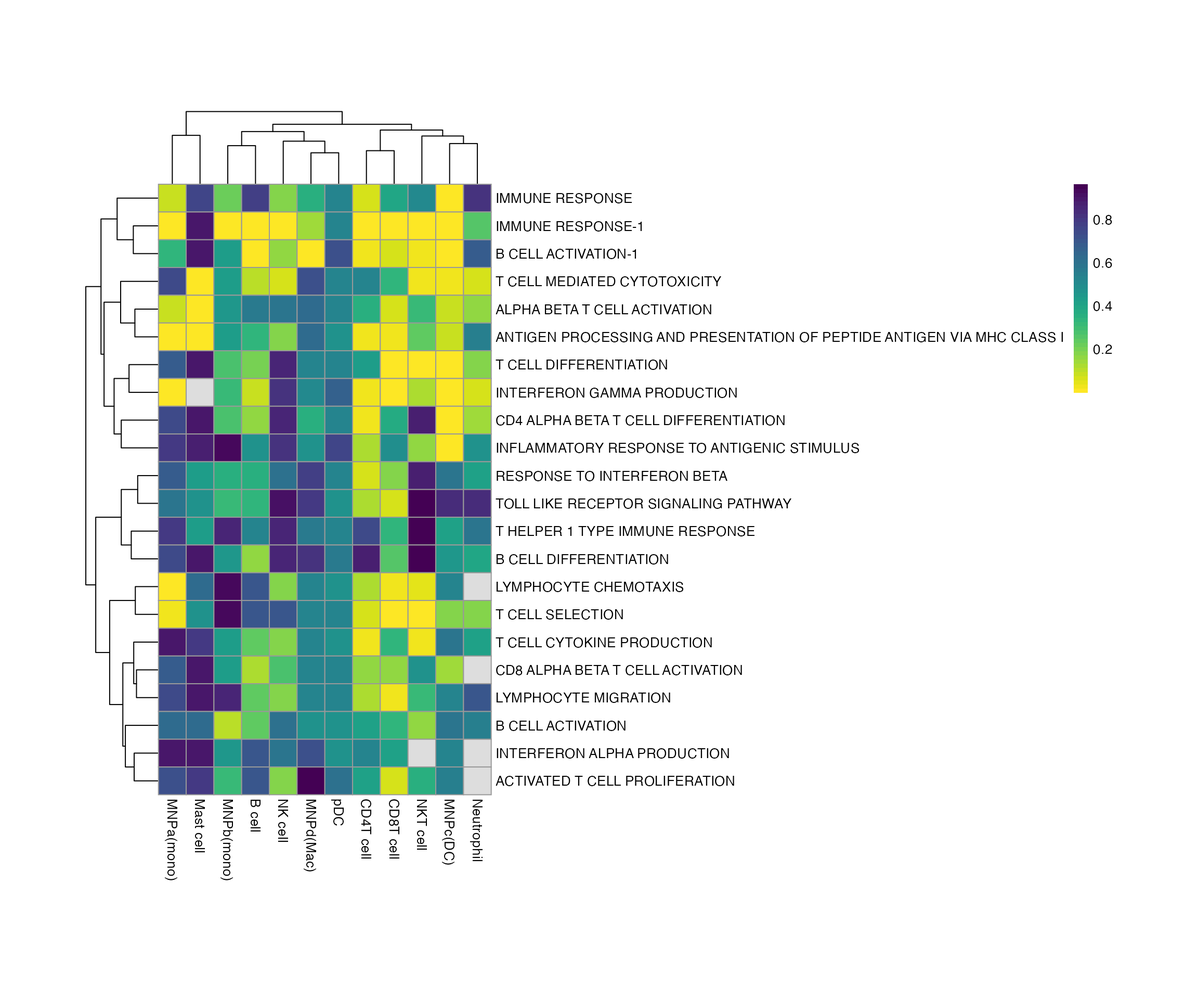
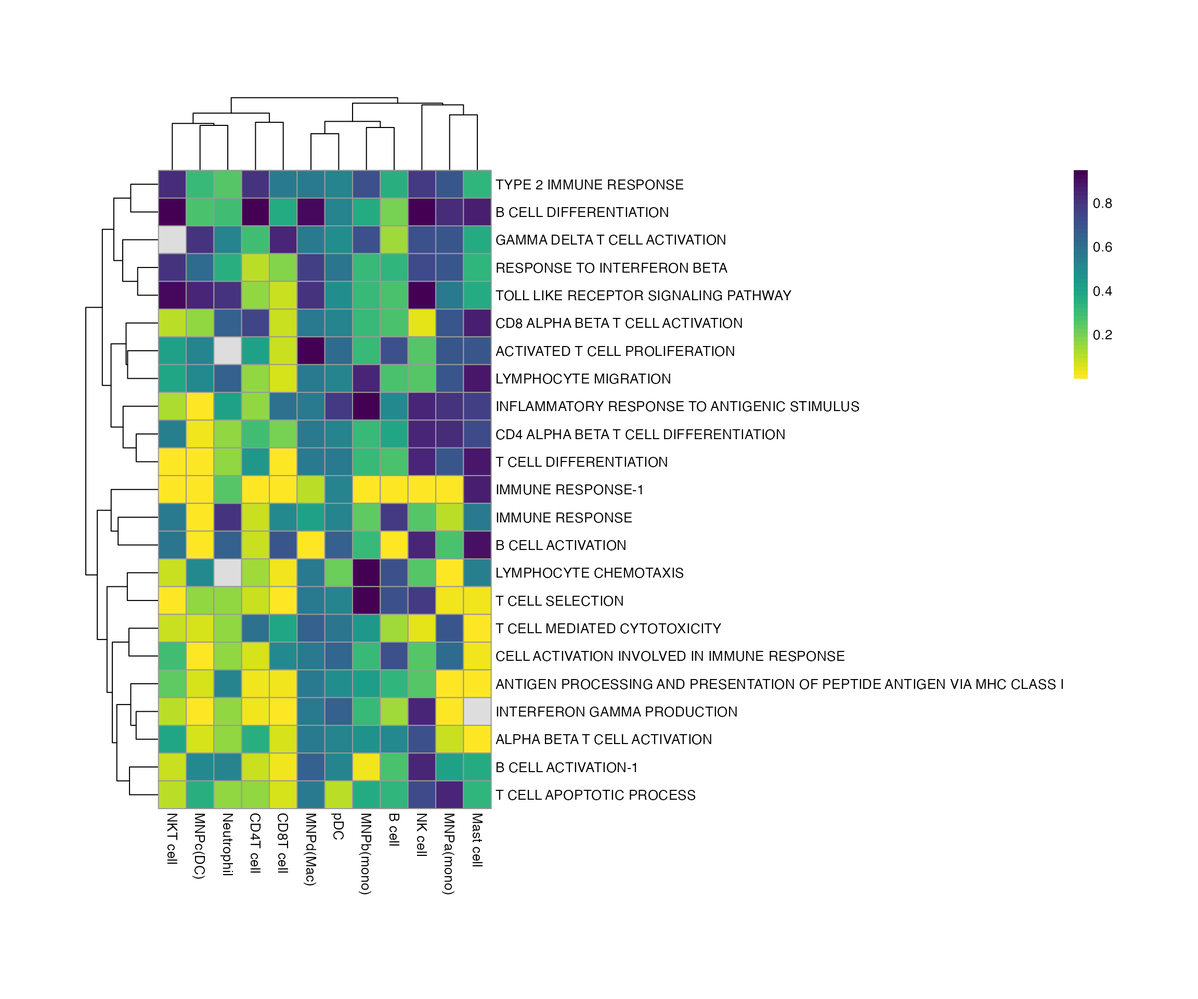
Built site for bowerbird: 0.0.2@d61a833

Changed region(s): [[0.0625, 0.0938, 0.7188, 0.875], [0.6875, 0.2812, 0.9375, 0.4062], [0.875, 0.1562, 0.9375, 0.2188]]

diff --git a/index.html b/index.html
@@ -158,7 +158,10 @@
 <span class="va">bwr</span> <span class="op">&lt;-</span> <span class="fu">bower</span><span class="op">(</span><span class="va">gs_list</span><span class="op">)</span>
 <span class="va">bwr</span> <span class="op">&lt;-</span> <span class="fu"><a href="reference/snn_graph.html">snn_graph</a></span><span class="op">(</span><span class="va">bwr</span><span class="op">)</span>
 <span class="va">bwr</span> <span class="op">&lt;-</span> <span class="fu"><a href="reference/find_clusters.html">find_clusters</a></span><span class="op">(</span><span class="va">bwr</span><span class="op">)</span>
-<span class="va">bwr</span> <span class="op">&lt;-</span> <span class="fu">summarize_clusters</span><span class="op">(</span><span class="va">bwr</span><span class="op">)</span></code></pre></div>
+<span class="va">bwr</span> <span class="op">&lt;-</span> <span class="fu">summarize_clusters</span><span class="op">(</span><span class="va">bwr</span><span class="op">)</span>
+
+<span class="co"># plot</span>
+<span class="fu"><a href="reference/plot_graph.html">plot_graph</a></span><span class="op">(</span><span class="va">bwr</span>, colorby <span class="op">=</span> <span class="st">'cluster'</span>, node.size <span class="op">=</span> <span class="st">'geneset_size'</span><span class="op">)</span></code></pre></div>
 </div>
 <div id="geneset-enrichment-analysis" class="section level2">
 <h2 class="hasAnchor">
@@ -180,59 +183,17 @@
 <span class="co">## scanpy.tl.score_genes</span>
 <span class="va">bwr</span> <span class="op">&lt;-</span> <span class="fu"><a href="reference/enrich_genesets.html">enrich_genesets</a></span><span class="op">(</span><span class="va">kidneyimmune</span>, <span class="va">bwr</span>, groupby <span class="op">=</span> <span class="st">'celltype'</span>, mode <span class="op">=</span> <span class="st">'scanpy'</span><span class="op">)</span>
 
-<span class="co"># plot</span>
-<span class="kw"><a href="https://rdrr.io/r/base/library.html">library</a></span><span class="op">(</span><span class="va"><a href="https://ggraph.data-imaginist.com">ggraph</a></span><span class="op">)</span>
-<span class="kw"><a href="https://rdrr.io/r/base/library.html">library</a></span><span class="op">(</span><span class="va"><a href="https://ggplot2.tidyverse.org">ggplot2</a></span><span class="op">)</span>
-<span class="va">plot_list</span> <span class="op">&lt;-</span> <span class="fu"><a href="https://rdrr.io/r/base/lapply.html">lapply</a></span><span class="op">(</span><span class="fu"><a href="https://rdrr.io/r/base/colnames.html">colnames</a></span><span class="op">(</span><span class="va">bwr</span><span class="op">@</span><span class="va">scores</span><span class="op">)</span>, <span class="kw">function</span><span class="op">(</span><span class="va">ds</span><span class="op">)</span><span class="op">{</span>
-  <span class="fu"><a href="https://rdrr.io/r/base/Random.html">set.seed</a></span><span class="op">(</span><span class="fl">100</span><span class="op">)</span>
-  <span class="fu">igraph</span><span class="fu">::</span><span class="fu"><a href="https://rdrr.io/pkg/igraph/man/V.html">V</a></span><span class="op">(</span><span class="va">bwr</span><span class="op">@</span><span class="va">graph</span><span class="op">)</span><span class="op">$</span><span class="va">score</span> <span class="op">&lt;-</span> <span class="va">bwr</span><span class="op">@</span><span class="va">scores</span><span class="op">[</span>, <span class="va">ds</span><span class="op">]</span>
-  <span class="va">g</span> <span class="op">&lt;-</span> <span class="fu"><a href="https://ggraph.data-imaginist.com/reference/ggraph.html">ggraph</a></span><span class="op">(</span><span class="va">bwr</span><span class="op">@</span><span class="va">graph</span>, <span class="st">'igraph'</span>, algorithm <span class="op">=</span> <span class="st">'fr'</span><span class="op">)</span> <span class="op">+</span> 
-    <span class="fu"><a href="https://ggraph.data-imaginist.com/reference/geom_edge_link.html">geom_edge_link</a></span><span class="op">(</span><span class="fu"><a href="https://ggplot2.tidyverse.org/reference/aes.html">aes</a></span><span class="op">(</span>width <span class="op">=</span> <span class="va">weight</span><span class="op">)</span>, alpha <span class="op">=</span> <span class="fl">.25</span><span class="op">)</span> <span class="op">+</span>
-    <span class="fu"><a href="https://ggraph.data-imaginist.com/reference/geom_node_point.html">geom_node_point</a></span><span class="op">(</span><span class="fu"><a href="https://ggplot2.tidyverse.org/reference/aes.html">aes</a></span><span class="op">(</span>color <span class="op">=</span> <span class="va">score</span>, size <span class="op">=</span> <span class="va">geneset_size</span><span class="op">)</span><span class="op">)</span> <span class="op">+</span> 
-    <span class="fu"><a href="https://ggplot2.tidyverse.org/reference/scale_size.html">scale_size_area</a></span><span class="op">(</span>max_size <span class="op">=</span> <span class="fl">3</span><span class="op">)</span> <span class="op">+</span>
-    <span class="fu"><a href="https://ggraph.data-imaginist.com/reference/geom_node_text.html">geom_node_text</a></span><span class="op">(</span><span class="fu"><a href="https://ggplot2.tidyverse.org/reference/aes.html">aes</a></span><span class="op">(</span>label <span class="op">=</span> <span class="va">labels</span><span class="op">)</span>, size <span class="op">=</span> <span class="fl">1</span><span class="op">)</span> <span class="op">+</span>
-    <span class="fu"><a href="https://ggplot2.tidyverse.org/reference/ggtheme.html">theme_bw</a></span><span class="op">(</span><span class="op">)</span> <span class="op">+</span>
-    <span class="fu"><a href="https://ggplot2.tidyverse.org/reference/ggtheme.html">theme_void</a></span><span class="op">(</span><span class="op">)</span> <span class="op">+</span>
-    <span class="fu"><a href="https://sjmgarnier.github.io/viridis/reference/scale_viridis.html">scale_color_viridis</a></span><span class="op">(</span><span class="op">)</span> <span class="op">+</span>
-    <span class="co"># scale_color_viridis(limits=c(0, 0.1), oob=scales::squish) +</span>
-    <span class="fu"><a href="https://ggraph.data-imaginist.com/reference/scale_edge_width.html">scale_edge_width</a></span><span class="op">(</span>range <span class="op">=</span> <span class="fu"><a href="https://rdrr.io/r/base/c.html">c</a></span><span class="op">(</span><span class="fl">0</span>, <span class="fl">1</span><span class="op">)</span><span class="op">)</span> <span class="op">+</span>
-    <span class="fu"><a href="https://ggplot2.tidyverse.org/reference/labs.html">ggtitle</a></span><span class="op">(</span><span class="va">ds</span><span class="op">)</span>
-<span class="op">}</span><span class="op">)</span>
-<span class="fu"><a href="https://rdrr.io/r/base/names.html">names</a></span><span class="op">(</span><span class="va">plot_list</span><span class="op">)</span> <span class="op">&lt;-</span> <span class="fu"><a href="https://rdrr.io/r/base/colnames.html">colnames</a></span><span class="op">(</span><span class="va">bwr</span><span class="op">@</span><span class="va">scores</span><span class="op">)</span>
-<span class="fu">cowplot</span><span class="fu">::</span><span class="fu"><a href="https://wilkelab.org/cowplot/reference/plot_grid.html">plot_grid</a></span><span class="op">(</span>plotlist <span class="op">=</span> <span class="va">plot_list</span><span class="op">)</span>
-<span class="co"># as a heatmap</span>
-<span class="fu">pheatmap</span><span class="fu">::</span><span class="fu"><a href="https://rdrr.io/pkg/pheatmap/man/pheatmap.html">pheatmap</a></span><span class="op">(</span><span class="va">bwr</span><span class="op">@</span><span class="va">scores</span><span class="op">)</span>
-
 <span class="co"># with fgsea on deg tables in a list</span>
 <span class="va">degs</span> <span class="op">&lt;-</span> <span class="fu">Seurat</span><span class="fu">::</span><span class="fu"><a href="https://satijalab.org/seurat/reference/FindAllMarkers.html">FindAllMarkers</a></span><span class="op">(</span><span class="va">kidneyimmune</span><span class="op">)</span>
 <span class="va">degs</span> <span class="op">&lt;-</span> <span class="fu"><a href="https://rdrr.io/r/base/split.html">split</a></span><span class="op">(</span><span class="va">degs</span>, <span class="va">degs</span><span class="op">$</span><span class="va">cluster</span><span class="op">)</span> <span class="co"># so in practice, there should be one DEG table per comparison in a list.</span>
-<span class="va">bwr</span> <span class="op">&lt;-</span> <span class="fu"><a href="reference/enrich_genesets.html">enrich_genesets</a></span><span class="op">(</span><span class="va">degs</span>, <span class="va">bwr</span>, gene_symbol <span class="op">=</span> <span class="st">'gene'</span>, logfoldchanges <span class="op">=</span> <span class="st">'avg_logFC'</span>,  pvals <span class="op">=</span> <span class="st">'p_val'</span><span class="op">)</span>
+<span class="va">bwr</span> <span class="op">&lt;-</span> <span class="fu"><a href="reference/enrich_genesets.html">enrich_genesets</a></span><span class="op">(</span><span class="va">degs</span>, <span class="va">bwr</span>, gene_symbol <span class="op">=</span> <span class="st">'gene'</span>, logfoldchanges <span class="op">=</span> <span class="st">'avg_log2FC'</span>,  pvals <span class="op">=</span> <span class="st">'p_val'</span><span class="op">)</span>
 
 <span class="co"># plot</span>
-<span class="va">plot_list</span> <span class="op">&lt;-</span> <span class="fu"><a href="https://rdrr.io/r/base/lapply.html">lapply</a></span><span class="op">(</span><span class="fu"><a href="https://rdrr.io/r/base/colnames.html">colnames</a></span><span class="op">(</span><span class="va">bwr</span><span class="op">@</span><span class="va">scores</span><span class="op">$</span><span class="va">NES</span><span class="op">)</span>, <span class="kw">function</span><span class="op">(</span><span class="va">ds</span><span class="op">)</span><span class="op">{</span>
-  <span class="fu"><a href="https://rdrr.io/r/base/Random.html">set.seed</a></span><span class="op">(</span><span class="fl">100</span><span class="op">)</span>
-  <span class="va">NES</span> <span class="op">&lt;-</span> <span class="va">bwr</span><span class="op">@</span><span class="va">scores</span><span class="op">$</span><span class="va">NES</span><span class="op">[</span>, <span class="va">ds</span><span class="op">]</span>
-  <span class="va">padj</span> <span class="op">&lt;-</span> <span class="va">bwr</span><span class="op">@</span><span class="va">scores</span><span class="op">$</span><span class="va">padj</span><span class="op">[</span>, <span class="va">ds</span><span class="op">]</span>
-  <span class="va">padj</span><span class="op">[</span><span class="va">padj</span> <span class="op">&gt;=</span> <span class="fl">0.25</span><span class="op">]</span> <span class="op">&lt;-</span> <span class="cn">NA</span>
-  <span class="fu">igraph</span><span class="fu">::</span><span class="fu"><a href="https://rdrr.io/pkg/igraph/man/V.html">V</a></span><span class="op">(</span><span class="va">bwr</span><span class="op">@</span><span class="va">graph</span><span class="op">)</span><span class="op">$</span><span class="va">NES</span> <span class="op">&lt;-</span> <span class="va">NES</span>
-  <span class="fu">igraph</span><span class="fu">::</span><span class="fu"><a href="https://rdrr.io/pkg/igraph/man/V.html">V</a></span><span class="op">(</span><span class="va">bwr</span><span class="op">@</span><span class="va">graph</span><span class="op">)</span><span class="op">$</span><span class="va">padj</span> <span class="op">&lt;-</span> <span class="va">padj</span>
-  <span class="va">g</span> <span class="op">&lt;-</span> <span class="fu"><a href="https://ggraph.data-imaginist.com/reference/ggraph.html">ggraph</a></span><span class="op">(</span><span class="va">bwr</span><span class="op">@</span><span class="va">graph</span>, <span class="st">'igraph'</span>, algorithm <span class="op">=</span> <span class="st">'fr'</span><span class="op">)</span> <span class="op">+</span> 
-    <span class="fu"><a href="https://ggraph.data-imaginist.com/reference/geom_edge_link.html">geom_edge_link</a></span><span class="op">(</span><span class="fu"><a href="https://ggplot2.tidyverse.org/reference/aes.html">aes</a></span><span class="op">(</span>width <span class="op">=</span> <span class="va">weight</span><span class="op">)</span>, alpha <span class="op">=</span> <span class="fl">.25</span><span class="op">)</span> <span class="op">+</span>
-    <span class="fu"><a href="https://ggraph.data-imaginist.com/reference/geom_node_point.html">geom_node_point</a></span><span class="op">(</span><span class="fu"><a href="https://ggplot2.tidyverse.org/reference/aes.html">aes</a></span><span class="op">(</span>color <span class="op">=</span> <span class="va">padj</span>, size <span class="op">=</span> <span class="va">NES</span><span class="op">)</span><span class="op">)</span> <span class="op">+</span> 
-    <span class="fu"><a href="https://ggplot2.tidyverse.org/reference/scale_size.html">scale_size_area</a></span><span class="op">(</span>max_size <span class="op">=</span> <span class="fl">3</span><span class="op">)</span> <span class="op">+</span>
-    <span class="fu"><a href="https://ggraph.data-imaginist.com/reference/geom_node_text.html">geom_node_text</a></span><span class="op">(</span><span class="fu"><a href="https://ggplot2.tidyverse.org/reference/aes.html">aes</a></span><span class="op">(</span>label <span class="op">=</span> <span class="va">labels</span><span class="op">)</span>, size <span class="op">=</span> <span class="fl">1</span><span class="op">)</span> <span class="op">+</span>
-    <span class="fu"><a href="https://ggplot2.tidyverse.org/reference/ggtheme.html">theme_bw</a></span><span class="op">(</span><span class="op">)</span> <span class="op">+</span>
-    <span class="fu"><a href="https://ggplot2.tidyverse.org/reference/ggtheme.html">theme_void</a></span><span class="op">(</span><span class="op">)</span> <span class="op">+</span>
-    <span class="fu"><a href="https://sjmgarnier.github.io/viridis/reference/scale_viridis.html">scale_color_viridis</a></span><span class="op">(</span><span class="op">)</span> <span class="op">+</span>
-    <span class="co"># scale_color_viridis(limits=c(0, 0.1), oob=scales::squish) +</span>
-    <span class="fu"><a href="https://ggraph.data-imaginist.com/reference/scale_edge_width.html">scale_edge_width</a></span><span class="op">(</span>range <span class="op">=</span> <span class="fu"><a href="https://rdrr.io/r/base/c.html">c</a></span><span class="op">(</span><span class="fl">0</span>, <span class="fl">1</span><span class="op">)</span><span class="op">)</span> <span class="op">+</span>
-    <span class="fu"><a href="https://ggplot2.tidyverse.org/reference/labs.html">ggtitle</a></span><span class="op">(</span><span class="va">ds</span><span class="op">)</span> <span class="op">+</span> <span class="fu"><a href="https://ggplot2.tidyverse.org/reference/theme.html">theme</a></span><span class="op">(</span>legend.position <span class="op">=</span> <span class="st">'none'</span><span class="op">)</span>
+<span class="va">celltypes</span> <span class="op">&lt;-</span> <span class="fu"><a href="https://rdrr.io/r/base/levels.html">levels</a></span><span class="op">(</span><span class="va">kidneyimmune</span><span class="op">)</span> <span class="co"># celtypes stored as Idents in seurat object.</span>
+<span class="va">plot_list</span> <span class="op">&lt;-</span> <span class="fu"><a href="https://rdrr.io/r/base/lapply.html">lapply</a></span><span class="op">(</span><span class="va">celltypes</span>, <span class="kw">function</span><span class="op">(</span><span class="va">ds</span><span class="op">)</span><span class="op">{</span>
+  <span class="va">g</span> <span class="op">&lt;-</span> <span class="fu"><a href="reference/plot_graph.html">plot_graph</a></span><span class="op">(</span><span class="va">bwr</span>, colorby <span class="op">=</span> <span class="va">ds</span><span class="op">)</span> <span class="op">+</span> <span class="fu">viridis</span><span class="fu">::</span><span class="fu"><a href="https://sjmgarnier.github.io/viridis/reference/scale_viridis.html">scale_color_viridis</a></span><span class="op">(</span><span class="op">)</span> <span class="op">+</span> <span class="fu">theme</span><span class="op">(</span>plot.title <span class="op">=</span> <span class="fu">element_text</span><span class="op">(</span>size <span class="op">=</span> <span class="fl">8</span>, face <span class="op">=</span> <span class="st">"bold"</span><span class="op">)</span><span class="op">)</span>
 <span class="op">}</span><span class="op">)</span>
-<span class="fu"><a href="https://rdrr.io/r/base/names.html">names</a></span><span class="op">(</span><span class="va">plot_list</span><span class="op">)</span> <span class="op">&lt;-</span> <span class="fu"><a href="https://rdrr.io/r/base/colnames.html">colnames</a></span><span class="op">(</span><span class="va">bwr</span><span class="op">@</span><span class="va">scores</span><span class="op">$</span><span class="va">NES</span><span class="op">)</span>
-<span class="fu">cowplot</span><span class="fu">::</span><span class="fu"><a href="https://wilkelab.org/cowplot/reference/plot_grid.html">plot_grid</a></span><span class="op">(</span>plotlist <span class="op">=</span> <span class="va">plot_list</span><span class="op">)</span>
-
-<span class="co"># as a heatmap</span>
-<span class="fu">pheatmap</span><span class="fu">::</span><span class="fu"><a href="https://rdrr.io/pkg/pheatmap/man/pheatmap.html">pheatmap</a></span><span class="op">(</span><span class="va">bwr</span><span class="op">@</span><span class="va">scores</span><span class="op">$</span><span class="va">NES</span><span class="op">)</span></code></pre></div>
+<span class="fu">cowplot</span><span class="fu">::</span><span class="fu"><a href="https://wilkelab.org/cowplot/reference/plot_grid.html">plot_grid</a></span><span class="op">(</span>plotlist <span class="op">=</span> <span class="va">plot_list</span>, scale <span class="op">=</span> <span class="fl">0.9</span><span class="op">)</span></code></pre></div>
 </div>
 <div id="using-core-genes-for-enrichment" class="section level2">
 <h2 class="hasAnchor">
@@ -241,11 +202,11 @@
 <code class="sourceCode R"><span class="co"># same function as above, just specifying core = TRUE.</span>
 <span class="va">bwr</span> <span class="op">&lt;-</span> <span class="fu"><a href="reference/enrich_genesets.html">enrich_genesets</a></span><span class="op">(</span><span class="va">kidneyimmune</span>, <span class="va">bwr</span>, core <span class="op">=</span> <span class="cn">TRUE</span>, groupby <span class="op">=</span> <span class="st">'celltype'</span><span class="op">)</span> <span class="co"># if mode is not specified, defaults to AUCell.</span>
 <span class="co"># output can also be plotted via ggraph as above but i'm using heatmap for convenience.</span>
-<span class="fu">pheatmap</span><span class="fu">::</span><span class="fu"><a href="https://rdrr.io/pkg/pheatmap/man/pheatmap.html">pheatmap</a></span><span class="op">(</span><span class="va">bwr</span><span class="op">@</span><span class="va">scores</span><span class="op">)</span>
+<span class="fu">pheatmap</span><span class="fu">::</span><span class="fu"><a href="https://rdrr.io/pkg/pheatmap/man/pheatmap.html">pheatmap</a></span><span class="op">(</span><span class="va">bwr</span><span class="op">@</span><span class="va">scores</span>, cellheight <span class="op">=</span> <span class="fl">20</span>, cellwidth <span class="op">=</span> <span class="fl">20</span><span class="op">)</span>
 
 <span class="co"># same for the gsea results.</span>
 <span class="va">bwr</span> <span class="op">&lt;-</span> <span class="fu"><a href="reference/enrich_genesets.html">enrich_genesets</a></span><span class="op">(</span><span class="va">degs</span>, <span class="va">bwr</span>, core <span class="op">=</span> <span class="cn">TRUE</span>, gene_symbol <span class="op">=</span> <span class="st">'gene'</span>, logfoldchanges <span class="op">=</span> <span class="st">'avg_logFC'</span>,  pvals <span class="op">=</span> <span class="st">'p_val'</span><span class="op">)</span>
-<span class="fu">pheatmap</span><span class="fu">::</span><span class="fu"><a href="https://rdrr.io/pkg/pheatmap/man/pheatmap.html">pheatmap</a></span><span class="op">(</span><span class="va">bwr</span><span class="op">@</span><span class="va">scores</span><span class="op">$</span><span class="va">NES</span><span class="op">)</span></code></pre></div>
+<span class="fu">pheatmap</span><span class="fu">::</span><span class="fu"><a href="https://rdrr.io/pkg/pheatmap/man/pheatmap.html">pheatmap</a></span><span class="op">(</span><span class="va">bwr</span><span class="op">@</span><span class="va">scores</span><span class="op">$</span><span class="va">padj</span>, cellheight <span class="op">=</span> <span class="fl">20</span>, cellwidth <span class="op">=</span> <span class="fl">20</span>, color <span class="op">=</span> <span class="fu">viridis</span><span class="fu">::</span><span class="fu"><a href="https://sjmgarnier.github.io/viridisLite/reference/viridis.html">viridis</a></span><span class="op">(</span><span class="fl">50</span>, direction <span class="op">=</span> <span class="op">-</span><span class="fl">1</span><span class="op">)</span><span class="op">)</span></code></pre></div>
 </div>
 </div>
 

diff --git a/articles/bowerbird_vignette.html b/articles/bowerbird_vignette.html
@@ -74,7 +74,7 @@
     <div class="page-header toc-ignore">
       <h1 data-toc-skip>Introduction to bowerbird</h1>
             
-            <h4 class="date">2021-06-30</h4>
+            <h4 class="date">2021-07-01</h4>
       
       
       <div class="hidden name"><code>bowerbird_vignette.rmd</code></div>
@@ -160,12 +160,12 @@
 <span class="va">bwr</span> <span class="op">&lt;-</span> <span class="fu"><a href="../reference/snn_graph.html">snn_graph</a></span><span class="op">(</span><span class="va">bwr</span><span class="op">)</span>
 <span class="va">bwr</span> <span class="op">&lt;-</span> <span class="fu"><a href="../reference/find_clusters.html">find_clusters</a></span><span class="op">(</span><span class="va">bwr</span><span class="op">)</span>
 <span class="va">bwr</span> <span class="op">&lt;-</span> <span class="fu">summarize_clusters</span><span class="op">(</span><span class="va">bwr</span><span class="op">)</span>
-<span class="co">#&gt; Downloading udpipe model from https://raw.githubusercontent.com/jwijffels/udpipe.models.ud.2.5/master/inst/udpipe-ud-2.5-191206/english-ewt-ud-2.5-191206.udpipe to /var/folders/24/8k48jl6d249_n_qfxwsl6xvm0000gn/T//RtmpG1t07w/english-ewt-ud-2.5-191206.udpipe</span>
+<span class="co">#&gt; Downloading udpipe model from https://raw.githubusercontent.com/jwijffels/udpipe.models.ud.2.5/master/inst/udpipe-ud-2.5-191206/english-ewt-ud-2.5-191206.udpipe to /var/folders/24/8k48jl6d249_n_qfxwsl6xvm0000gn/T//RtmpPFFGDt/english-ewt-ud-2.5-191206.udpipe</span>
 <span class="co">#&gt;  - This model has been trained on version 2.5 of data from https://universaldependencies.org</span>
 <span class="co">#&gt;  - The model is distributed under the CC-BY-SA-NC license: https://creativecommons.org/licenses/by-nc-sa/4.0</span>
 <span class="co">#&gt;  - Visit https://github.com/jwijffels/udpipe.models.ud.2.5 for model license details.</span>
 <span class="co">#&gt;  - For a list of all models and their licenses (most models you can download with this package have either a CC-BY-SA or a CC-BY-SA-NC license) read the documentation at ?udpipe_download_model. For building your own models: visit the documentation by typing vignette('udpipe-train', package = 'udpipe')</span>
-<span class="co">#&gt; Downloading finished, model stored at '/var/folders/24/8k48jl6d249_n_qfxwsl6xvm0000gn/T//RtmpG1t07w/english-ewt-ud-2.5-191206.udpipe'</span></code></pre></div>
+<span class="co">#&gt; Downloading finished, model stored at '/var/folders/24/8k48jl6d249_n_qfxwsl6xvm0000gn/T//RtmpPFFGDt/english-ewt-ud-2.5-191206.udpipe'</span></code></pre></div>
 <p>Or extracting from <code>msigdbr</code>.</p>
 <div class="sourceCode" id="cb7"><pre class="downlit sourceCode r">
 <code class="sourceCode R"><span class="kw"><a href="https://rdrr.io/r/base/library.html">library</a></span><span class="op">(</span><span class="va"><a href="https://igordot.github.io/msigdbr/">msigdbr</a></span><span class="op">)</span>
@@ -181,53 +181,54 @@
 <span class="va">bwr</span> <span class="op">&lt;-</span> <span class="fu"><a href="../reference/snn_graph.html">snn_graph</a></span><span class="op">(</span><span class="va">bwr</span><span class="op">)</span>
 <span class="va">bwr</span> <span class="op">&lt;-</span> <span class="fu"><a href="../reference/find_clusters.html">find_clusters</a></span><span class="op">(</span><span class="va">bwr</span><span class="op">)</span>
 <span class="va">bwr</span> <span class="op">&lt;-</span> <span class="fu">summarize_clusters</span><span class="op">(</span><span class="va">bwr</span><span class="op">)</span>
-<span class="co">#&gt; Downloading udpipe model from https://raw.githubusercontent.com/jwijffels/udpipe.models.ud.2.5/master/inst/udpipe-ud-2.5-191206/english-ewt-ud-2.5-191206.udpipe to /var/folders/24/8k48jl6d249_n_qfxwsl6xvm0000gn/T//RtmpG1t07w/english-ewt-ud-2.5-191206.udpipe</span>
+<span class="co">#&gt; Downloading udpipe model from https://raw.githubusercontent.com/jwijffels/udpipe.models.ud.2.5/master/inst/udpipe-ud-2.5-191206/english-ewt-ud-2.5-191206.udpipe to /var/folders/24/8k48jl6d249_n_qfxwsl6xvm0000gn/T//RtmpPFFGDt/english-ewt-ud-2.5-191206.udpipe</span>
 <span class="co">#&gt;  - This model has been trained on version 2.5 of data from https://universaldependencies.org</span>
 <span class="co">#&gt;  - The model is distributed under the CC-BY-SA-NC license: https://creativecommons.org/licenses/by-nc-sa/4.0</span>
 <span class="co">#&gt;  - Visit https://github.com/jwijffels/udpipe.models.ud.2.5 for model license details.</span>
 <span class="co">#&gt;  - For a list of all models and their licenses (most models you can download with this package have either a CC-BY-SA or a CC-BY-SA-NC license) read the documentation at ?udpipe_download_model. For building your own models: visit the documentation by typing vignette('udpipe-train', package = 'udpipe')</span>
-<span class="co">#&gt; Downloading finished, model stored at '/var/folders/24/8k48jl6d249_n_qfxwsl6xvm0000gn/T//RtmpG1t07w/english-ewt-ud-2.5-191206.udpipe'</span></code></pre></div>
+<span class="co">#&gt; Downloading finished, model stored at '/var/folders/24/8k48jl6d249_n_qfxwsl6xvm0000gn/T//RtmpPFFGDt/english-ewt-ud-2.5-191206.udpipe'</span></code></pre></div>
 <p>So what has actually happened? Well, basically <code>bowerbird</code> has learnt which gene sets share more genes with each other, clustered them together and learnt a new summary term.</p>
 <div class="sourceCode" id="cb8"><pre class="downlit sourceCode r">
 <code class="sourceCode R"><span class="va">bwr</span>
 <span class="co">#&gt; BOWER class</span>
 <span class="co">#&gt; number of genesets:  265 </span>
 <span class="co">#&gt; genesets kNN Graph: </span>
-<span class="co">#&gt; IGRAPH c2a3b61 UNW- 265 843 -- </span>
+<span class="co">#&gt; IGRAPH 94b02ef UNW- 265 843 -- </span>
 <span class="co">#&gt; + attr: name (v/c), cluster (v/n), geneset_size (v/n), terms (v/c),</span>
 <span class="co">#&gt; | labels (v/c), weight (e/n)</span>
-<span class="co">#&gt; + edges from c2a3b61 (vertex names):</span>
+<span class="co">#&gt; + edges from 94b02ef (vertex names):</span>
 <span class="co">#&gt; [1] GOBP_ACTIVATED_T_CELL_PROLIFERATION--GOBP_CD8_POSITIVE_ALPHA_BETA_T_CELL_DIFFERENTIATION          </span>
 <span class="co">#&gt; [2] GOBP_ACTIVATED_T_CELL_PROLIFERATION--GOBP_NEGATIVE_REGULATION_OF_ACTIVATED_T_CELL_PROLIFERATION   </span>
 <span class="co">#&gt; [3] GOBP_ACTIVATED_T_CELL_PROLIFERATION--GOBP_NEGATIVE_REGULATION_OF_LYMPHOCYTE_DIFFERENTIATION       </span>
 <span class="co">#&gt; [4] GOBP_ACTIVATED_T_CELL_PROLIFERATION--GOBP_NEGATIVE_REGULATION_OF_T_CELL_RECEPTOR_SIGNALING_PATHWAY</span>
 <span class="co">#&gt; [5] GOBP_ACTIVATION_OF_IMMUNE_RESPONSE --GOBP_ACTIVATION_OF_INNATE_IMMUNE_RESPONSE                    </span>
 <span class="co">#&gt; + ... omitted several edges</span>
-<span class="co">#&gt; number of geneset clusters:  22 </span>
+<span class="co">#&gt; number of geneset clusters:  23 </span>
 <span class="co">#&gt; Core genes:</span>
 <span class="co">#&gt;  First six genes shown</span>
+<span class="co">#&gt;   CD8 ALPHA BETA T CELL ACTIVATION : HLA-E FCGR2B IL20RB GATA3 ADCYAP1 BTK ...</span>
 <span class="co">#&gt;   IMMUNE RESPONSE-1 : AIM2 BCL10 BTRC CARD11 CARD9 CD209 ...</span>
-<span class="co">#&gt;   CD4 ALPHA BETA T CELL DIFFERENTIATION : ANXA1 ATP7A BATF BCL3 BCL6 CBFB ...</span>
+<span class="co">#&gt;   TYPE 2 IMMUNE RESPONSE : IL4 PLCL2 TLR4 IL18 IL18R1 IL4R ...</span>
 <span class="co">#&gt;   IMMUNE RESPONSE : CLNK HLA-E HLA-F IFNA2 IFNB1 IL18 ...</span>
-<span class="co">#&gt;   T CELL MEDIATED CYTOTOXICITY : HLA-A HLA-B HLA-C HLA-E HLA-F HLA-G ...</span>
-<span class="co">#&gt;   B CELL ACTIVATION : ADA BAX BCL6 BLK BTK CD74 ...</span>
 <span class="co">#&gt;   RESPONSE TO INTERFERON BETA : BCL2L11 HIF1A MEF2C ADA SOS1 SOS2 ...</span>
-<span class="co">#&gt;   CD8 ALPHA BETA T CELL ACTIVATION : HLA-E GATA3 ADCYAP1 BTK C3 CCR7 ...</span>
+<span class="co">#&gt;   T CELL MEDIATED CYTOTOXICITY : HLA-A HLA-B HLA-C HLA-E HLA-F HLA-G ...</span>
+<span class="co">#&gt;   CD4 ALPHA BETA T CELL DIFFERENTIATION : ANXA1 ATP7A BATF BCL3 BCL6 CBFB ...</span>
 <span class="co">#&gt;   T CELL DIFFERENTIATION : FCGR2B FGL2 HLA-DOA LILRB2 THBS1 BMP4 ...</span>
 <span class="co">#&gt;   INTERFERON GAMMA PRODUCTION : ABCB9 ACE ACTR10 ACTR1A ACTR1B AP1B1 ...</span>
-<span class="co">#&gt;   T HELPER 1 TYPE IMMUNE RESPONSE : BATF FOXP3 IL6 TBX21 BCL6 IL2 ...</span>
-<span class="co">#&gt;   INTERFERON ALPHA PRODUCTION : IL18 IL18R1 IL4 TLR4 SYK IL13 ...</span>
 <span class="co">#&gt;   TOLL LIKE RECEPTOR SIGNALING PATHWAY : CACTIN PTPRS TICAM1 TLR3 TLR4 TLR9 ...</span>
-<span class="co">#&gt;   T CELL CYTOKINE PRODUCTION : KLRC1 LILRB1 NOD2 PTPRC EGR3 LEF1 ...</span>
+<span class="co">#&gt;   B CELL ACTIVATION-1 : ADA BAX BCL6 BLK BTK CD74 ...</span>
+<span class="co">#&gt;   B CELL DIFFERENTIATION : IL10 TLR9 SYK ADA BCL3 C17orf99 ...</span>
+<span class="co">#&gt;   B CELL ACTIVATION : ADA ADAM17 BATF BCL3 BCL6 BTK ...</span>
 <span class="co">#&gt;   LYMPHOCYTE CHEMOTAXIS : CCL2 CCL3 CCL4 CCL5 CCL7 CXCL14 ...</span>
 <span class="co">#&gt;   ACTIVATED T CELL PROLIFERATION : LILRB4 CD24 CD274 FYN HHLA2 ICOSLG ...</span>
-<span class="co">#&gt;   B CELL ACTIVATION-1 : BATF BCL3 BCL6 BTK C17orf99 CCR6 ...</span>
-<span class="co">#&gt;   ALPHA BETA T CELL ACTIVATION : AGER ANXA1 ARG2 ATP7A BATF BCL3 ...</span>
 <span class="co">#&gt;   INFLAMMATORY RESPONSE TO ANTIGENIC STIMULUS : BTK C3 CD28 HLA-E LTA NOD2 ...</span>
-<span class="co">#&gt;   T CELL SELECTION : PTPRC TOX RABL3 STAT5B ZBTB1 IL15 ...</span>
-<span class="co">#&gt;   ANTIGEN PROCESSING AND PRESENTATION OF PEPTIDE ANTIGEN VIA MHC CLASS I : ABCB9 AZGP1 B2M ERAP1 ERAP2 HFE ...</span>
+<span class="co">#&gt;   ALPHA BETA T CELL ACTIVATION : AGER ANXA1 ARG2 ATP7A BATF BCL3 ...</span>
+<span class="co">#&gt;   T CELL SELECTION : TOX BCL2 BATF CTSL FOXP3 IL12B ...</span>
+<span class="co">#&gt;   T CELL APOPTOTIC PROCESS : ADA AKT1 BAK1 BAX BCL10 BCL2L11 ...</span>
+<span class="co">#&gt;   GAMMA DELTA T CELL ACTIVATION : LILRB1 KLRC1 PTPRC EGR3 LEF1 NCKAP1L ...</span>
 <span class="co">#&gt;   LYMPHOCYTE MIGRATION : ADAM10 ADAM17 ADAM8 AIF1 APP CCL20 ...</span>
-<span class="co">#&gt;   B CELL DIFFERENTIATION : ADA BCL3 C17orf99 CD19 CDH17 CMTM7 ...</span></code></pre></div>
+<span class="co">#&gt;   ANTIGEN PROCESSING AND PRESENTATION OF PEPTIDE ANTIGEN VIA MHC CLASS I : ABCB9 AZGP1 B2M ERAP1 ERAP2 HFE ...</span>
+<span class="co">#&gt;   CELL ACTIVATION INVOLVED IN IMMUNE RESPONSE : ABL1 ADA ANXA1 AP1G1 APBB1IP ATP7A ...</span></code></pre></div>
 <p>We can visualise it with a simple plot</p>
 <div class="sourceCode" id="cb9"><pre class="downlit sourceCode r">
 <code class="sourceCode R"><span class="fu"><a href="../reference/plot_graph.html">plot_graph</a></span><span class="op">(</span><span class="va">bwr</span>, colorby <span class="op">=</span> <span class="st">'cluster'</span>, node.size <span class="op">=</span> <span class="st">'geneset_size'</span><span class="op">)</span></code></pre></div>
@@ -255,7 +256,7 @@
 <div class="sourceCode" id="cb12"><pre class="downlit sourceCode r">
 <code class="sourceCode R"><span class="va">celltypes</span> <span class="op">&lt;-</span> <span class="fu"><a href="https://rdrr.io/r/base/levels.html">levels</a></span><span class="op">(</span><span class="va">kidneyimmune</span><span class="op">)</span> <span class="co"># celtypes stored as Idents in seurat object.</span>
 <span class="va">plot_list</span> <span class="op">&lt;-</span> <span class="fu"><a href="https://rdrr.io/r/base/lapply.html">lapply</a></span><span class="op">(</span><span class="va">celltypes</span>, <span class="kw">function</span><span class="op">(</span><span class="va">ds</span><span class="op">)</span><span class="op">{</span>
-  <span class="va">g</span> <span class="op">&lt;-</span> <span class="fu"><a href="../reference/plot_graph.html">plot_graph</a></span><span class="op">(</span><span class="va">bwr</span>, colorby <span class="op">=</span> <span class="va">ds</span><span class="op">)</span> <span class="op">+</span> <span class="fu">viridis</span><span class="fu">::</span><span class="fu"><a href="https://sjmgarnier.github.io/viridis/reference/scale_viridis.html">scale_color_viridis</a></span><span class="op">(</span><span class="op">)</span> <span class="op">+</span> <span class="fu"><a href="https://ggplot2.tidyverse.org/reference/theme.html">theme</a></span><span class="op">(</span>plot.title <span class="op">=</span> <span class="fu"><a href="https://ggplot2.tidyverse.org/reference/element.html">element_text</a></span><span class="op">(</span>size <span class="op">=</span> <span class="fl">8</span>, face <span class="op">=</span> <span class="st">"bold"</span><span class="op">)</span><span class="op">)</span>
+  <span class="va">g</span> <span class="op">&lt;-</span> <span class="fu"><a href="../reference/plot_graph.html">plot_graph</a></span><span class="op">(</span><span class="va">bwr</span>, colorby <span class="op">=</span> <span class="va">ds</span><span class="op">)</span> <span class="op">+</span> <span class="fu">viridis</span><span class="fu">::</span><span class="fu"><a href="https://sjmgarnier.github.io/viridis/reference/scale_viridis.html">scale_color_viridis</a></span><span class="op">(</span><span class="op">)</span> <span class="op">+</span> <span class="fu">theme</span><span class="op">(</span>plot.title <span class="op">=</span> <span class="fu">element_text</span><span class="op">(</span>size <span class="op">=</span> <span class="fl">8</span>, face <span class="op">=</span> <span class="st">"bold"</span><span class="op">)</span><span class="op">)</span>
 <span class="op">}</span><span class="op">)</span>
 <span class="fu">cowplot</span><span class="fu">::</span><span class="fu"><a href="https://wilkelab.org/cowplot/reference/plot_grid.html">plot_grid</a></span><span class="op">(</span>plotlist <span class="op">=</span> <span class="va">plot_list</span>, scale <span class="op">=</span> <span class="fl">0.9</span><span class="op">)</span></code></pre></div>
 <p><img src="bowerbird_vignette_files/figure-html/unnamed-chunk-13-1.png" width="4320"></p>
@@ -271,14 +272,14 @@
 <p>Coloured by adjusted p value.</p>
 <div class="sourceCode" id="cb14"><pre class="downlit sourceCode r">
 <code class="sourceCode R"><span class="va">plot_list</span> <span class="op">&lt;-</span> <span class="fu"><a href="https://rdrr.io/r/base/lapply.html">lapply</a></span><span class="op">(</span><span class="va">celltypes</span>, <span class="kw">function</span><span class="op">(</span><span class="va">ds</span><span class="op">)</span><span class="op">{</span>
-  <span class="va">g</span> <span class="op">&lt;-</span> <span class="fu"><a href="../reference/plot_graph.html">plot_graph</a></span><span class="op">(</span><span class="va">bwr</span>, colorby <span class="op">=</span> <span class="va">ds</span>, mode <span class="op">=</span> <span class="st">'gsea'</span>, gsea.slot <span class="op">=</span> <span class="st">'padj'</span><span class="op">)</span> <span class="op">+</span> <span class="fu">viridis</span><span class="fu">::</span><span class="fu"><a href="https://sjmgarnier.github.io/viridis/reference/scale_viridis.html">scale_color_viridis</a></span><span class="op">(</span>na.value <span class="op">=</span> <span class="st">'#e7e7e7'</span><span class="op">)</span> <span class="op">+</span> <span class="fu"><a href="https://ggplot2.tidyverse.org/reference/theme.html">theme</a></span><span class="op">(</span>legend.position <span class="op">=</span> <span class="st">'none'</span>, plot.title <span class="op">=</span> <span class="fu"><a href="https://ggplot2.tidyverse.org/reference/element.html">element_text</a></span><span class="op">(</span>size <span class="op">=</span> <span class="fl">8</span>, face <span class="op">=</span> <span class="st">"bold"</span><span class="op">)</span><span class="op">)</span>
+  <span class="va">g</span> <span class="op">&lt;-</span> <span class="fu"><a href="../reference/plot_graph.html">plot_graph</a></span><span class="op">(</span><span class="va">bwr</span>, colorby <span class="op">=</span> <span class="va">ds</span>, mode <span class="op">=</span> <span class="st">'gsea'</span>, gsea.slot <span class="op">=</span> <span class="st">'padj'</span><span class="op">)</span> <span class="op">+</span> <span class="fu">viridis</span><span class="fu">::</span><span class="fu"><a href="https://sjmgarnier.github.io/viridis/reference/scale_viridis.html">scale_color_viridis</a></span><span class="op">(</span>na.value <span class="op">=</span> <span class="st">'#e7e7e7'</span><span class="op">)</span> <span class="op">+</span> <span class="fu">theme</span><span class="op">(</span>legend.position <span class="op">=</span> <span class="st">'none'</span>, plot.title <span class="op">=</span> <span class="fu">element_text</span><span class="op">(</span>size <span class="op">=</span> <span class="fl">8</span>, face <span class="op">=</span> <span class="st">"bold"</span><span class="op">)</span><span class="op">)</span>
 <span class="op">}</span><span class="op">)</span>
 <span class="fu">cowplot</span><span class="fu">::</span><span class="fu"><a href="https://wilkelab.org/cowplot/reference/plot_grid.html">plot_grid</a></span><span class="op">(</span>plotlist <span class="op">=</span> <span class="va">plot_list</span>, scale <span class="op">=</span> <span class="fl">0.9</span><span class="op">)</span></code></pre></div>
 <p><img src="bowerbird_vignette_files/figure-html/unnamed-chunk-15-1.png" width="3840"></p>
 <p>Coloured by normalized enrichment score.</p>
 <div class="sourceCode" id="cb15"><pre class="downlit sourceCode r">
 <code class="sourceCode R"><span class="va">plot_list</span> <span class="op">&lt;-</span> <span class="fu"><a href="https://rdrr.io/r/base/lapply.html">lapply</a></span><span class="op">(</span><span class="va">celltypes</span>, <span class="kw">function</span><span class="op">(</span><span class="va">ds</span><span class="op">)</span><span class="op">{</span>
-  <span class="va">g</span> <span class="op">&lt;-</span> <span class="fu"><a href="../reference/plot_graph.html">plot_graph</a></span><span class="op">(</span><span class="va">bwr</span>, colorby <span class="op">=</span> <span class="va">ds</span>, mode <span class="op">=</span> <span class="st">'gsea'</span>, gsea.slot <span class="op">=</span> <span class="st">'NES'</span><span class="op">)</span> <span class="op">+</span> <span class="fu">viridis</span><span class="fu">::</span><span class="fu"><a href="https://sjmgarnier.github.io/viridis/reference/scale_viridis.html">scale_color_viridis</a></span><span class="op">(</span>na.value <span class="op">=</span> <span class="st">'#e7e7e7'</span><span class="op">)</span> <span class="op">+</span> <span class="fu"><a href="https://ggplot2.tidyverse.org/reference/theme.html">theme</a></span><span class="op">(</span>legend.position <span class="op">=</span> <span class="st">'none'</span>, plot.title <span class="op">=</span> <span class="fu"><a href="https://ggplot2.tidyverse.org/reference/element.html">element_text</a></span><span class="op">(</span>size <span class="op">=</span> <span class="fl">8</span>, face <span class="op">=</span> <span class="st">"bold"</span><span class="op">)</span><span class="op">)</span>
+  <span class="va">g</span> <span class="op">&lt;-</span> <span class="fu"><a href="../reference/plot_graph.html">plot_graph</a></span><span class="op">(</span><span class="va">bwr</span>, colorby <span class="op">=</span> <span class="va">ds</span>, mode <span class="op">=</span> <span class="st">'gsea'</span>, gsea.slot <span class="op">=</span> <span class="st">'NES'</span><span class="op">)</span> <span class="op">+</span> <span class="fu">viridis</span><span class="fu">::</span><span class="fu"><a href="https://sjmgarnier.github.io/viridis/reference/scale_viridis.html">scale_color_viridis</a></span><span class="op">(</span>na.value <span class="op">=</span> <span class="st">'#e7e7e7'</span><span class="op">)</span> <span class="op">+</span> <span class="fu">theme</span><span class="op">(</span>legend.position <span class="op">=</span> <span class="st">'none'</span>, plot.title <span class="op">=</span> <span class="fu">element_text</span><span class="op">(</span>size <span class="op">=</span> <span class="fl">8</span>, face <span class="op">=</span> <span class="st">"bold"</span><span class="op">)</span><span class="op">)</span>
 <span class="op">}</span><span class="op">)</span>
 <span class="fu">cowplot</span><span class="fu">::</span><span class="fu"><a href="https://wilkelab.org/cowplot/reference/plot_grid.html">plot_grid</a></span><span class="op">(</span>plotlist <span class="op">=</span> <span class="va">plot_list</span>, scale <span class="op">=</span> <span class="fl">0.9</span><span class="op">)</span></code></pre></div>
 <p><img src="bowerbird_vignette_files/figure-html/unnamed-chunk-16-1.png" width="3840"></p>
